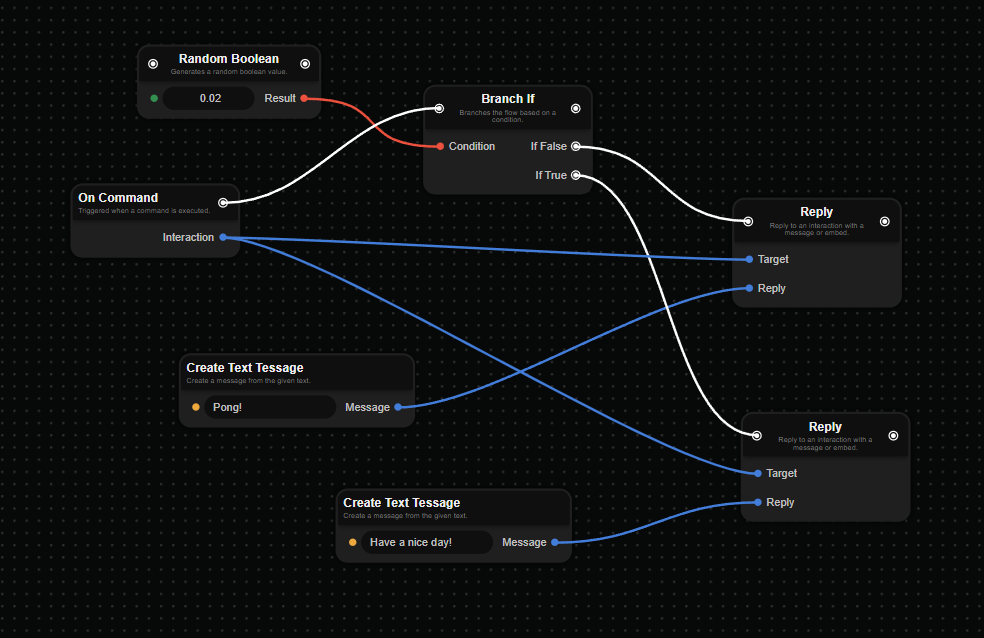
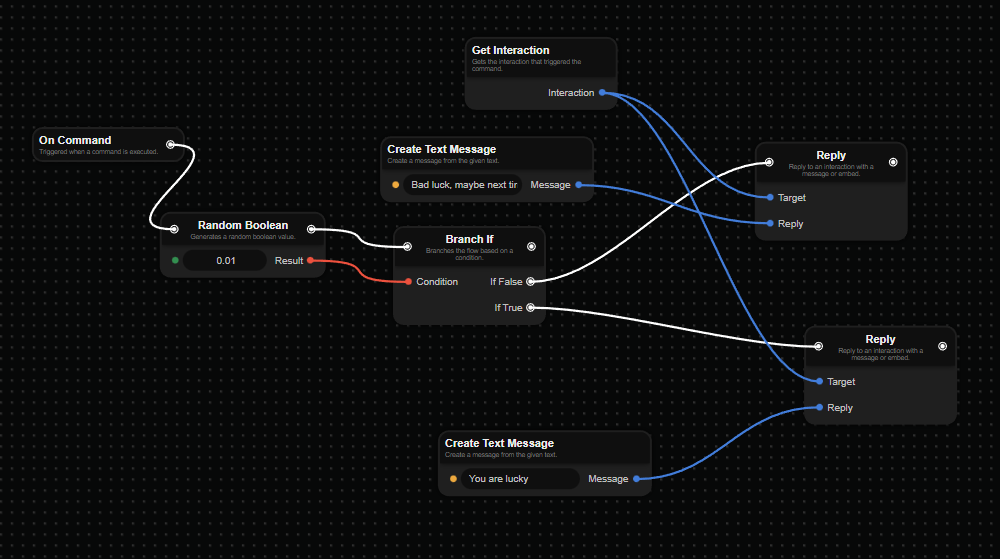
fix: search now clears previous results && feat: interaction moved to other node

diff --git a/src/components/editor/nodes/NodeView.svelte b/src/components/editor/nodes/NodeView.svelte
@@ -55,6 +55,9 @@
     function isInputConnected(input: string) {
         return $PROJECT.getCurrentFlow()?.connections.some((c) => c.to === node && c.toKey === input);
     }
+
+    $: isEmpty = Object.keys(node.type.inputs).length === (node.type.inputs.__flow_in__ ? 1 : 0) &&
+        Object.keys(node.type.outputs).length === (node.type.outputs.__flow_out__ ? 1 : 0);
 </script>
 
 <div class="node-view" style={offsetCSS} class:nv-selected={isSelected}>
@@ -92,55 +95,57 @@
                 />
         {/if}
     </div>
-    <div class="node-view-body">
-        <div class="nvb-inputs">
-            {#each Object.entries(node.type.inputs) as input}
-                {#if input[0] !== "__flow_in__"}
-                    <div class="nf-block nf-i">
-                        <NodeConnector 
-                            type={input[1].type.type} 
-                            bind:port={node.iPorts[input[0]]} 
-                            node={node}
-                            key={input[0]}
-                            sTags={input[1].type.structTags}
-                            isEndPort
-                            />
-                        {#if isInputConnected(input[0])}
-                            <p>{input[1].name}</p>
-                        {:else}
-                            {#if input[1].type.type === NodeConnectionType.Number}
-                                <input type="number" placeholder={input[1].name} bind:value={node.inputHardcoded[input[0]]} />
-                            {:else if input[1].type.type === NodeConnectionType.Text}
-                                <input type="text" placeholder={input[1].name} bind:value={node.inputHardcoded[input[0]]}/>
-                            {:else if input[1].type.type === NodeConnectionType.Boolean}
-                                <input type="checkbox" bind:checked={node.inputHardcoded[input[0]]}/>
-                                <!-- svelte-ignore a11y-label-has-associated-control -->
-                                <label>{input[1].name}</label>
-                            {:else}
+    {#if !isEmpty}
+        <div class="node-view-body">
+            <div class="nvb-inputs">
+                {#each Object.entries(node.type.inputs) as input}
+                    {#if input[0] !== "__flow_in__"}
+                        <div class="nf-block nf-i">
+                            <NodeConnector 
+                                type={input[1].type.type} 
+                                bind:port={node.iPorts[input[0]]} 
+                                node={node}
+                                key={input[0]}
+                                sTags={input[1].type.structTags}
+                                isEndPort
+                                />
+                            {#if isInputConnected(input[0])}
                                 <p>{input[1].name}</p>
+                            {:else}
+                                {#if input[1].type.type === NodeConnectionType.Number}
+                                    <input type="number" placeholder={input[1].name} bind:value={node.inputHardcoded[input[0]]} />
+                                {:else if input[1].type.type === NodeConnectionType.Text}
+                                    <input type="text" placeholder={input[1].name} bind:value={node.inputHardcoded[input[0]]}/>
+                                {:else if input[1].type.type === NodeConnectionType.Boolean}
+                                    <input type="checkbox" bind:checked={node.inputHardcoded[input[0]]}/>
+                                    <!-- svelte-ignore a11y-label-has-associated-control -->
+                                    <label>{input[1].name}</label>
+                                {:else}
+                                    <p>{input[1].name}</p>
+                                {/if}
                             {/if}
-                        {/if}
-                    </div>
-                {/if}
-            {/each}
+                        </div>
+                    {/if}
+                {/each}
+            </div>
+            <div class="nvb-outputs">
+                {#each Object.entries(node.type.outputs) as output}
+                    {#if output[0] !== "__flow_out__"}
+                        <div class="nf-block nf-o">
+                            <p>{output[1].name}</p>
+                            <NodeConnector 
+                                type={output[1].type.type} 
+                                bind:port={node.oPorts[output[0]]} 
+                                node={node}
+                                key={output[0]}
+                                sTags={output[1].type.structTags}
+                                />
+                        </div>
+                    {/if}
+                {/each}
+            </div>
         </div>
-        <div class="nvb-outputs">
-            {#each Object.entries(node.type.outputs) as output}
-                {#if output[0] !== "__flow_out__"}
-                    <div class="nf-block nf-o">
-                        <p>{output[1].name}</p>
-                        <NodeConnector 
-                            type={output[1].type.type} 
-                            bind:port={node.oPorts[output[0]]} 
-                            node={node}
-                            key={output[0]}
-                            sTags={output[1].type.structTags}
-                            />
-                    </div>
-                {/if}
-            {/each}
-        </div>
-    </div>
+    {/if}
 </div>
 
 <svelte:body on:mousemove={moveNode} on:mouseup={stopDrag} />

diff --git a/src/components/editor/nodes/SearchContext.svelte b/src/components/editor/nodes/SearchContext.svelte
@@ -31,6 +31,7 @@
     );
 
     const unsubscribeProject = PROJECT.subscribe((project) => {
+        categorizedNodes = {};
         project.getCurrentFlow()?.availableNodes.forEach(an => {
             if (!categorizedNodes[an.category]) categorizedNodes[an.category] = [];
             categorizedNodes[an.category].push(an);

diff --git a/disbotter-generator/src/compiler.rs b/disbotter-generator/src/compiler.rs
@@ -113,7 +113,7 @@ impl NodesJSCompiler {
         ]);
         builder.increase_ident_by(2);
 
-        self.compile_flow(&command.flow, builder.clone(), "_builtin_on_command");
+        self.compile_flow(&command.flow, builder.clone(), "__start__");
 
         builder.decrease_ident_by(2);
         builder.add_lines(vec![
@@ -233,7 +233,9 @@ impl NodesJSCompiler {
     pub fn compile_flow(&mut self, flow: &DisbotterFlow, mut builder: CodeBuilder, start_node_id: &str) {
         builder.compiler.current_flow = Some(flow.clone());
         // Find the start node
-        let start_node = flow.nodes.iter().find(|n| n.node_type == start_node_id).unwrap();
+        let start_node = flow.nodes.iter().find(|n| n.node_type == start_node_id).expect(
+            "Every flow needs a start node"
+        );
         // Clear the var cache
         self.clear_var_cache();
         // Add interaction key

diff --git a/disbotter-generator/src/builder.rs b/disbotter-generator/src/builder.rs
@@ -173,9 +173,10 @@ impl CodeBuilder {
     }
 
     pub fn bind_io(&mut self, ip: String, op: String) {
-        let ovar = self.get_out_var(op.clone());
         let ivar = self.get_in_var(ip.clone());
-        self.add_line(format!("const {} = {}", ovar, ivar));
+        let ovar = PortIdentifier::Output { node_uid: self.current_node_id.clone(), port_key: op.clone() };
+        self.var_cache.lock().unwrap()
+            .insert(ovar, ivar);
     }
 
     pub fn push_stack(&mut self) {

diff --git a/disbotter-generator/src/main.rs b/disbotter-generator/src/main.rs
@@ -22,4 +22,5 @@ fn test_output() {
 
 fn main() {
     generate_node_declarations();
+    test_output();
 }
